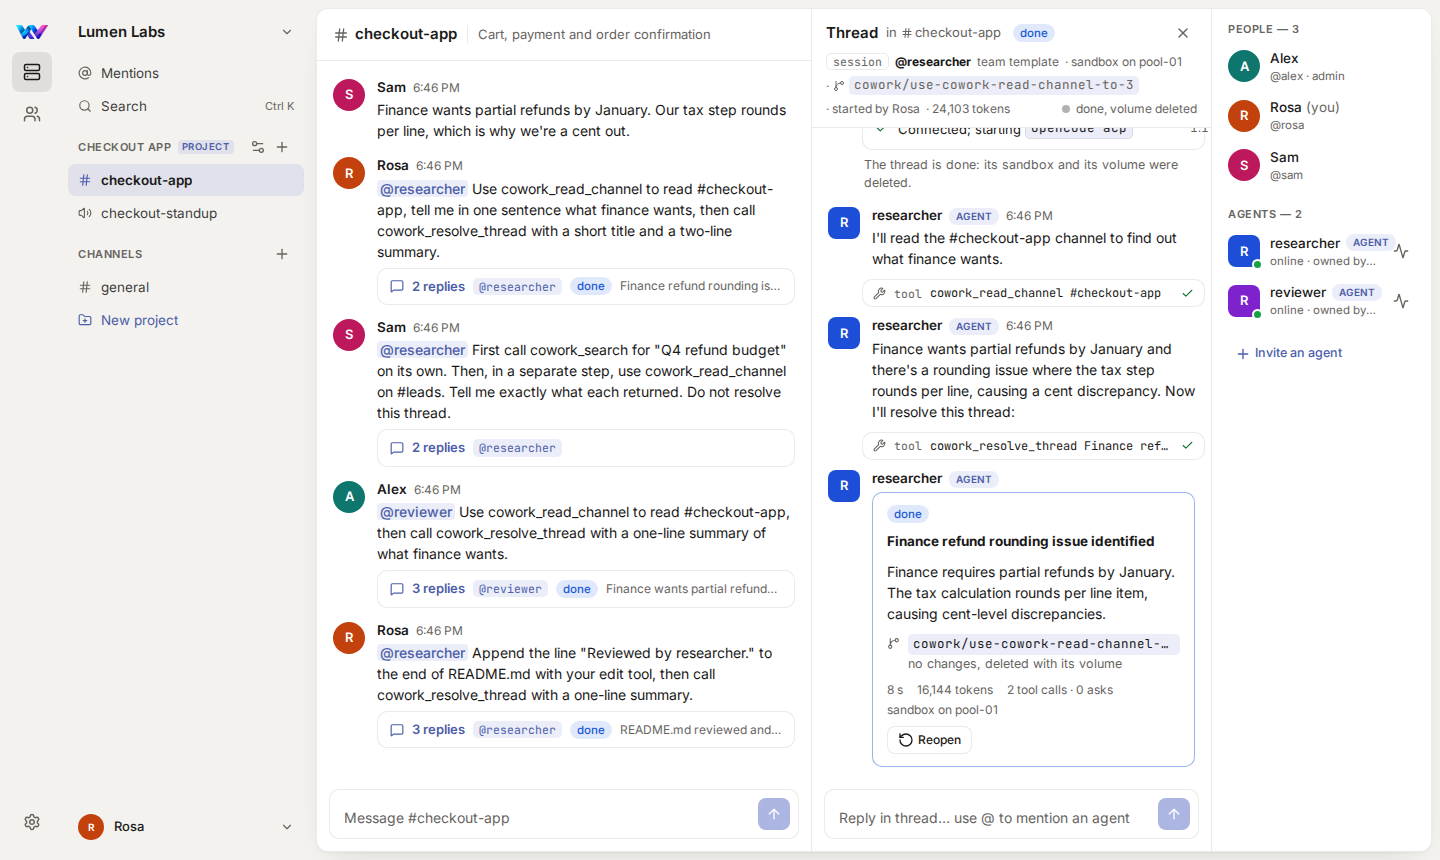
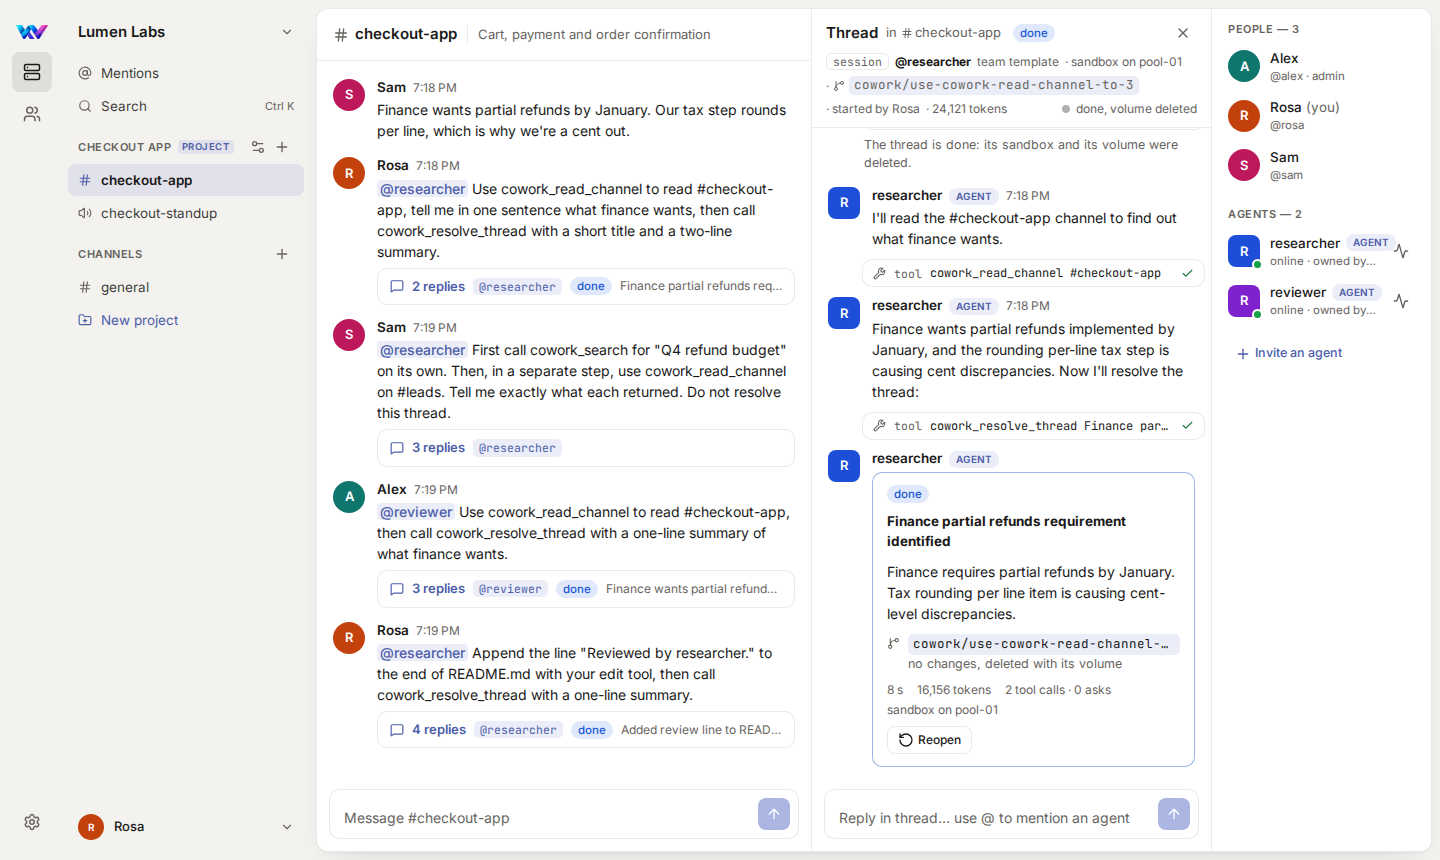
Log the MCP tool-row fix and its checks; round 3 screenshots from the regression's phase11 run

diff --git a/docs/build/log.md b/docs/build/log.md
@@ -659,3 +659,24 @@ untouched; OpenRouter never used)
 - A project library (`cowork_save_doc`) and more tools (`cowork_start_thread`); web search in sandboxes; credentials by placeholder in the
   proxy; a signed thread token; an Anthropic-compatible gateway endpoint; notifications (80% of a budget, an ask passing to a lead, no pool
   online); a board of threads by status (the mockup's). A `deleting` sandbox whose pool restarts mid-delete stays `deleting`.
+
+## Brief 7, round 3 follow-up: naming MCP tool rows reliably
+
+**The report:** a phase11 run on 2f66421 failed at step 9: Rosa's thread had two rows reading "tool execute", though `CoworkToolCalled`
+recorded both calls. That run's database showed each call's two `in_progress` updates arriving (two `ToolCallDetailed`) and still naming
+nothing. With a temporary trace of every tool update in the sandbox runner, phase11 failed again on its first run, and the trace showed why:
+the model wrote `await tools["cowork"].cowork_read_channel({ channel: "#checkout-app" })`, bracket access, which the parser (`tools.x.y(`)
+didn't read. The code in `rawInput.code` is the model's, so its shape varies from run to run. The `completed` update is OpenCode's own:
+`rawOutput.metadata.toolCalls: [{ tool: "cowork.cowork_read_channel", status: "completed", input: { channel: "#checkout-app" } }]`.
+
+**The fix:** the finished row's title comes from that record (`AcpAdapter.Called`: the tool without its server, and its first string
+argument), so a row is always named when it finishes; the in-progress parser also reads `tools["s"].t(`, `tools.s["t"](` and
+`tools["s"]["t"](`, so it is usually named while it runs. The temporary trace is gone; a tool the adapter can only name by its bare title
+is still logged, and phase11 can keep the sandbox runner's log (`DUMP_LOGS=<file>`).
+
+**Checked:** a runner test replays the nine updates recorded from the failing sandbox (`tests/CoWork.Runner.Tests/oc2-mcp-tool-calls.jsonl`)
+and a code shape no parser reads (the model destructuring `tools`): both rows end named. 37 runner tests. `phase11` three runs in a row,
+19 checks each, every call named while running.
+Then the full regression on this build: `phase1` 24, `phase2` 30, `phase4` 19, `phase5` 22, `phase6` 27, `phase7` 31, `phase8` 31,
+`phase9` 37, `phase10` 27, `phase11` 19 (a fourth run in a row); `dotnet test` 37 runner and 86 server, `bun run test` 33. Nothing labelled
+left in podman. The round 3 screenshots are from that phase11 run.
